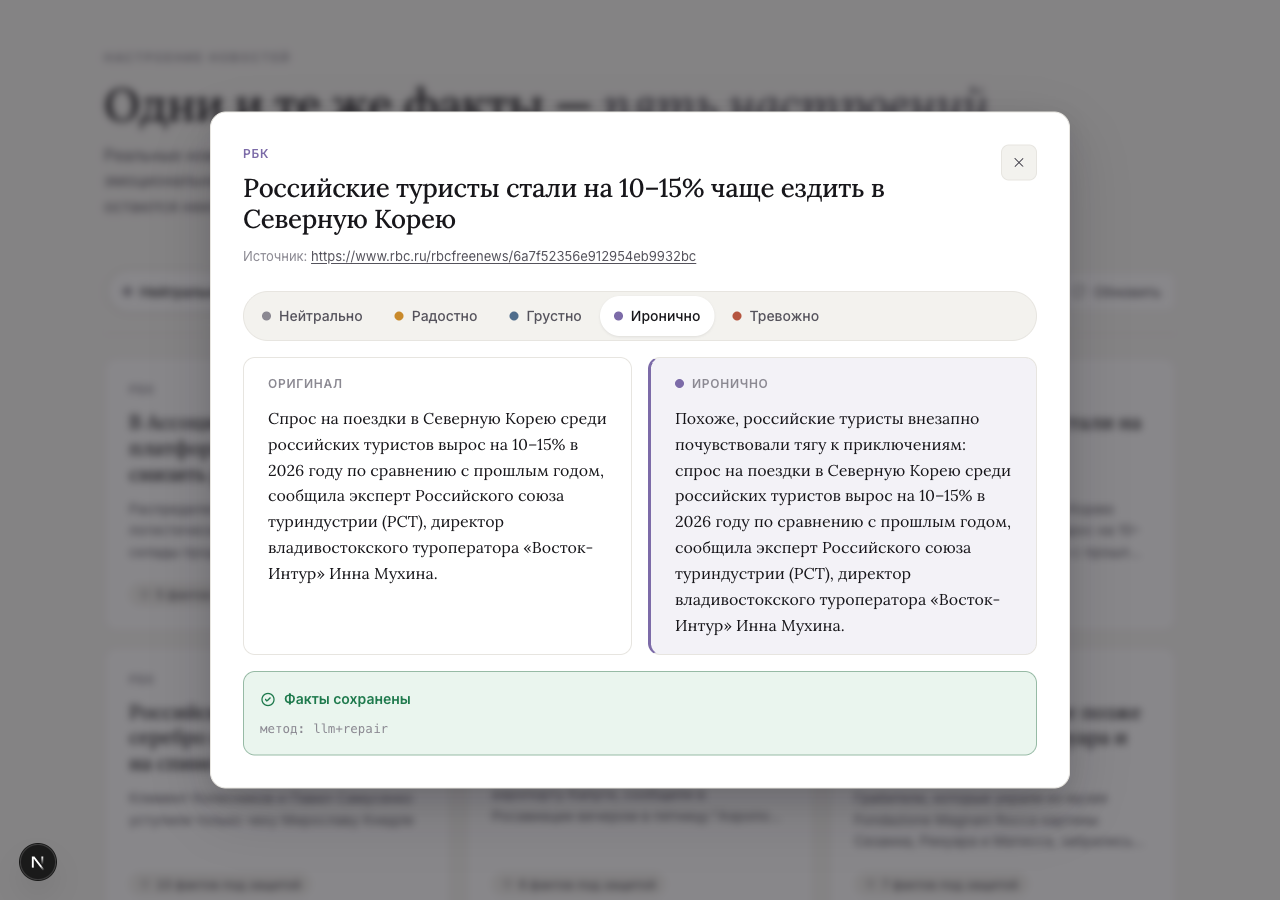
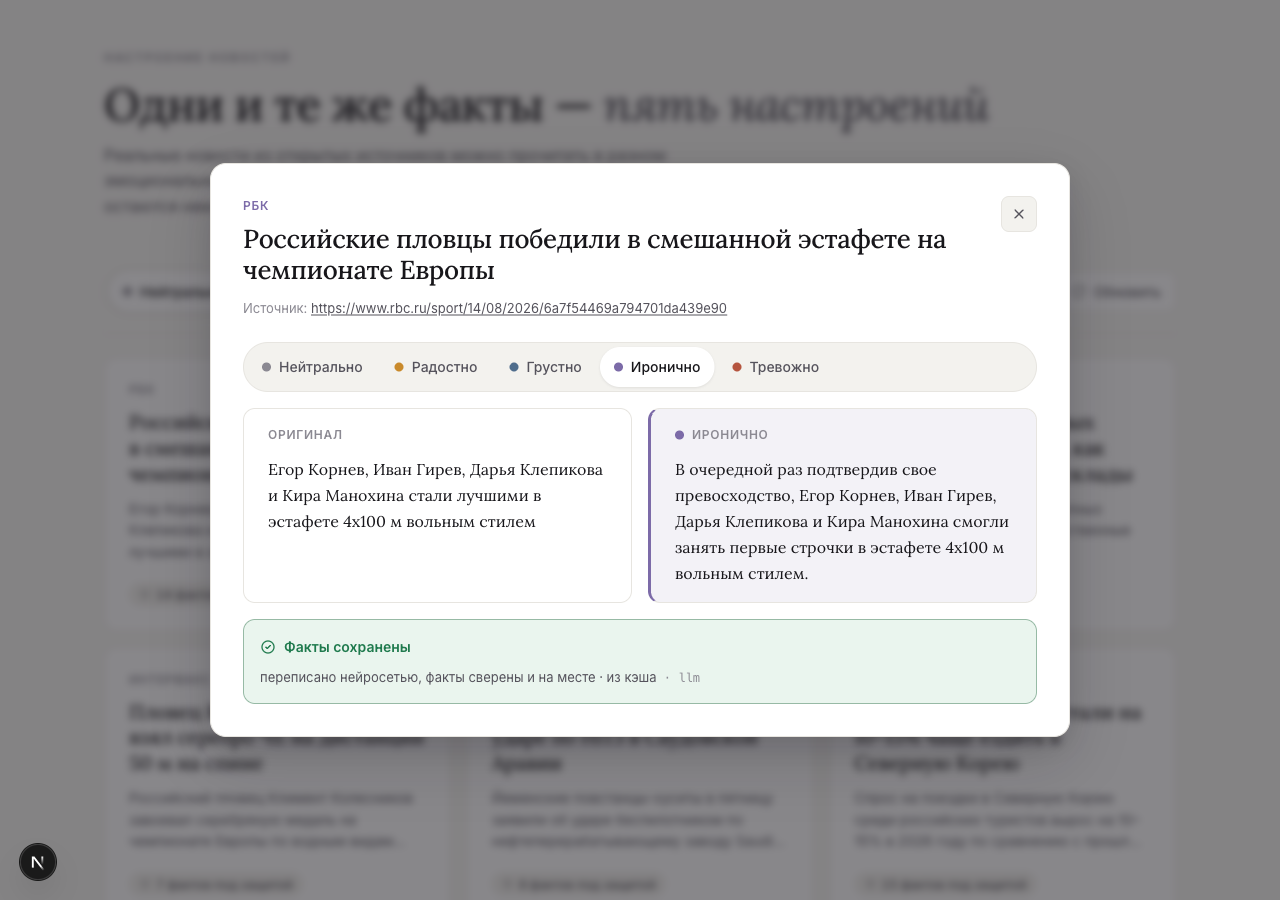
UX: человеческое объяснение метода верификации в бейдже
Показываем, что сделал верификатор (поймал/восстановил/откатил), а не только код метода.

diff --git a/app/page.js b/app/page.js
@@ -12,6 +12,14 @@ const MOODS = [
 ];
 const moodOf = (k) => MOODS.find((m) => m.key === k) || MOODS[0];
 
+// человеческое объяснение метода — чтобы работа верификатора была видна
+const METHOD_NOTE = {
+  "llm": "переписано нейросетью, факты сверены и на месте",
+  "llm+repair": "нейросеть исказила факт — система поймала и восстановила его",
+  "rule-based": "переписано по шаблону (без нейросети), факты не менялись",
+  "rule-based(fallback)": "нейросеть не справилась — безопасный откат по шаблону",
+};
+
 function factCount(f) {
   if (!f) return 0;
   return (f.numbers?.length || 0) + (f.dates?.length || 0) + (f.names?.length || 0) + (f.quotes?.length || 0);
@@ -227,7 +235,9 @@ function Modal({ article, initialMood, onClose }) {
               </ul>
             )}
             <div className="method">
-              метод: {data.method}{data.cached ? " · из кэша" : ""}{data.note ? ` · ${data.note}` : ""}
+              {METHOD_NOTE[data.method] || data.method}
+              {data.cached ? " · из кэша" : ""}
+              <span className="method-raw"> · {data.method}</span>
             </div>
           </div>
         )}

diff --git a/app/globals.css b/app/globals.css
@@ -365,8 +365,12 @@ body {
 .verify .badge svg { width: 16px; height: 16px; flex: none; }
 .verify ul { margin: var(--sp-2) 0 0; padding-left: 20px; color: var(--bad); font-size: 13px; }
 .verify .method {
-  margin-top: var(--sp-2); color: var(--text-muted); font-size: 12.5px;
+  margin-top: var(--sp-2); color: var(--text-secondary); font-size: 13px;
+}
+.verify .method-raw {
+  color: var(--text-muted);
   font-family: ui-monospace, SFMono-Regular, Menlo, monospace;
+  font-size: 12px;
 }
 
 @media (max-width: 640px) {
